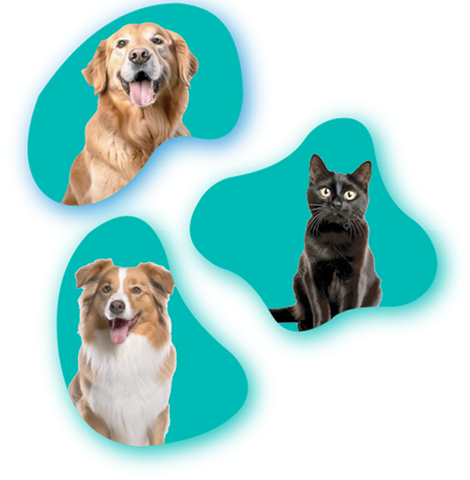
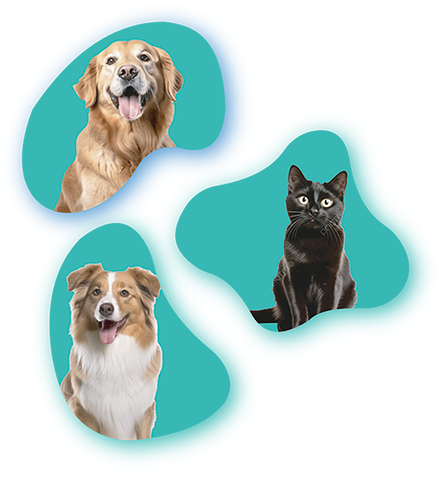
Add some images with differents sizes+ Remove old images + create component for invitation to do smth

diff --git a/pattes-heureuses/resources/views/components/client/sections/about/section-invitation.blade.php b/pattes-heureuses/resources/views/components/client/sections/about/section-invitation.blade.php
@@ -1,0 +1,43 @@
+<x-layouts.section :bg="'paws'">
+    <x-layouts.cta-section
+        :title="__('client/about/cta-invitation/cta-invitation.title')"
+        :paragraph="__('client/about/cta-invitation/cta-invitation.content')"
+        :href_cta="route('contact')"
+        :href_cta_title="__('client/about/cta-invitation/cta-invitation.cta-title')"
+        :cta="__('client/about/cta-invitation/cta-invitation.cta')"
+        :img_src_480="asset('img/480x480/cat-desktop.png')"
+        :img_src_600="asset('img/600x600/cat-desktop.png')"
+        :img_src_800="asset('img/800x800/cat-desktop.png')"
+        :img_alt="__('client/home/cta-invitation/cta-invitation.alt')"
+    >
+
+    </x-layouts.cta-section>
+</x-layouts.section>
+{{--
+<div class="relative mx-8 max-w-[1200px] p-8 flex flex-col justify-center items-center bg-main-blue rounded-lg lg:grid lg:grid-cols-2 lg:p-16 xl:mx-auto">
+        <div class="flex flex-col gap-4 items-center lg:items-start lg:gap-6">
+            <h2 class="h2-section  text-center text-white">
+                {{$title}}
+            </h2>
+            <p class="font-poppins text-center text-white lg:text-left">
+                {{$paragraph}}
+            </p>
+            <x-basics.cta :href="{{$href_cta}}" :title="{{$href_cta_title}}">
+                {{$cta}}
+            </x-basics.cta>
+        </div>
+        <div class="hidden lg:block lg:absolute lg:right-1/12 lg:bottom-[-70px] lg:w-full lg: max-w-[450px]">
+            <picture>
+                <source media="(min-width:1000px)" srcset="{!! $img_src_600 !!}">
+                <source media="(min-width:768px)" srcset="{!! $img_src_480 !!}">
+                <source media="(min-width:530px)" srcset="{!! $img_src_800 !!}">
+                <source media="(max-width:529px)" srcset="{!! $img_src_480 !!}">
+            </picture>
+
+            <img src="{{$img_src_600}}" alt="{{$img_alt}}"
+                 class="w-full h-auto block aspect-auto object-cover rounded-lg">
+        </div>
+
+    </div>
+
+--}}

diff --git a/pattes-heureuses/resources/views/components/client/sections/home/section-invitation.blade.php b/pattes-heureuses/resources/views/components/client/sections/home/section-invitation.blade.php
@@ -1,21 +1,16 @@
 <x-layouts.section :bg="'paws'">
-    <div class="relative mx-8 max-w-[1200px] p-8 flex flex-col justify-center items-center bg-main-blue rounded-lg lg:grid lg:grid-cols-2 lg:p-16 xl:mx-auto">
-        <div class="flex flex-col gap-4 items-center lg:items-start lg:gap-6">
-            <h2 class="h2-section  text-center text-white">
-                {{__('client/home/cta-invitation/cta-invitation.title')}}
-            </h2>
-            <p class="font-poppins text-center text-white lg:text-left">
-                {{__('client/home/cta-invitation/cta-invitation.content')}}
+    <x-layouts.cta-section
+        :title="__('client/home/cta-invitation/cta-invitation.title')"
+        :paragraph="__('client/home/cta-invitation/cta-invitation.content')"
+        :href_cta="route('animals.index')"
+        :href_cta_title="__('client/home/cta-invitation/cta-invitation.cta-title')"
+        :cta="__('client/home/cta-invitation/cta-invitation.cta')"
+        :img_src_480="asset('img/480x480/cat-contact.png')"
+        :img_src_600="asset('img/600x600/cat-contact.png')"
+        :img_src_800="asset('img/800x800/cat-contact.png')"
+        :img_alt="__('client/home/cta-invitation/cta-invitation.alt')"
+    >
 
-            </p>
-            <x-basics.cta :href="route('animals.index')" :title="__('client/home/cta-invitation/cta-invitation.cta-title')">
-                {{__('client/home/cta-invitation/cta-invitation.cta')}}
-            </x-basics.cta>
-        </div>
-
-        <div class="hidden lg:block lg:absolute lg:right-1/12 lg:bottom-[-49px] lg:w-full lg: max-w-[450px]">
-            <img src="{{asset('img/chat-cta-animals.png')}}" alt="{{__('client/home/cta-invitation/cta-invitation.alt')}}">
-        </div>
-
-    </div>
+    </x-layouts.cta-section>
 </x-layouts.section>
+

diff --git a/pattes-heureuses/resources/views/components/layouts/cta-section.blade.php b/pattes-heureuses/resources/views/components/layouts/cta-section.blade.php
@@ -1,0 +1,37 @@
+@props([
+'title',
+'paragraph',
+'href_cta',
+'href_cta_title',
+'cta',
+'img_src_480',
+'img_src_600',
+'img_src_800',
+'img_alt'
+])
+
+<div class="relative mx-8 max-w-[1200px] p-8 flex flex-col justify-center items-center bg-main-blue rounded-lg lg:grid lg:grid-cols-2 lg:p-16 xl:mx-auto">
+    <div class="flex flex-col gap-4 items-center lg:items-start lg:gap-6">
+        <h2 class="h2-section  text-center text-white">
+            {{$title}}
+        </h2>
+        <p class="font-poppins text-center text-white lg:text-left">
+            {{$paragraph}}
+        </p>
+        <x-basics.cta :href="$href_cta" :title="$href_cta_title">
+            {{$cta}}
+        </x-basics.cta>
+    </div>
+    <div class="hidden lg:block lg:absolute lg:right-1/12 lg:bottom-[-47px] lg:w-full lg: max-w-[450px]">
+        <picture>
+            <source media="(min-width:1000px)" srcset="{!! $img_src_600 !!}">
+            <source media="(min-width:768px)" srcset="{!! $img_src_480 !!}">
+            <source media="(min-width:530px)" srcset="{!! $img_src_800 !!}">
+            <source media="(max-width:529px)" srcset="{!! $img_src_480 !!}">
+        </picture>
+
+        <img src="{{$img_src_600}}" alt="{{$img_alt}}"
+             class="w-full h-auto block aspect-auto object-cover rounded-lg">
+    </div>
+
+</div>

diff --git a/pattes-heureuses/resources/views/components/client/sections/home/section-faq.blade.php b/pattes-heureuses/resources/views/components/client/sections/home/section-faq.blade.php
@@ -21,7 +21,15 @@
                 {{__('client/home/faq/faq.cta')}}
             </x-basics.cta>
             <div class="hidden md:block md:w-4/5 md:mx-auto">
-                <img src="{{asset('img/chienCurieux.png')}}" alt="{{__('client/home/faq/faq.alt')}}">
+                <picture>
+                    <source media="(min-width:1000px)" srcset="{!! asset('img/600x600/dog-faq.png') !!}">
+                    <source media="(min-width:768px)" srcset="{!! asset('img/480x480/dog-faq.png') !!}">
+                    <source media="(min-width:530px)" srcset="{!! asset('img/800x800/dog-faq.png') !!}">
+                    <source media="(max-width:529px)" srcset="{!! asset('img/480x480/dog-faq.png') !!}">
+                </picture>
+
+                <img src="{!! asset('img/600x600/dog-faq.png') !!}" alt="{{__('client/home/faq/faq.alt')}}"
+                     class="w-full h-auto block aspect-auto object-cover rounded-lg">
             </div>
         </div>
         <div class="flex flex-col gap-12 md:col-span-6 ">

diff --git a/pattes-heureuses/lang/fr/client/about/cta-invitation/cta-invitation.php b/pattes-heureuses/lang/fr/client/about/cta-invitation/cta-invitation.php
@@ -2,7 +2,7 @@
 
 
 return [
-    'title' => 'Devenir bénévole !',
+    'title' => 'Devenez bénévole !',
     'content' => 'Rejoignez l’aventure des Pattes Heureuses et participez à rendre chaque jour un peu plus beau pour nos pensionnaires.  Que ce soit pour promener les chiens, câliner les chats ou prêter main-forte au refuge, chaque geste compte.  Si vous souhaitez devenir bénévole, contactez-nous dès aujourd’hui — vos mains peuvent faire la différence !',
     'cta' => "Devenir bénévole",
     'cta-title' => 'Accéder à la page des contact',

diff --git a/pattes-heureuses/resources/views/client/about.blade.php b/pattes-heureuses/resources/views/client/about.blade.php
@@ -2,6 +2,6 @@
     <x-client.sections.about.section-landing></x-client.sections.about.section-landing>
     <x-client.sections.about.section-story></x-client.sections.about.section-story>
     <x-client.sections.about.section-team></x-client.sections.about.section-team>
-    <x-client.sections.about.section-cta-invitation></x-client.sections.about.section-cta-invitation>
+    <x-client.sections.about.section-invitation></x-client.sections.about.section-invitation>
 
 </x-layouts.auth>

diff --git a/pattes-heureuses/resources/views/components/layouts/text-media.blade.php b/pattes-heureuses/resources/views/components/layouts/text-media.blade.php
@@ -1,7 +1,7 @@
 @props(
     [
         'title',
-        'level_title',
+        'level_title' =>'',
         'paragraph',
         'img_src_480',
         'img_src_600',
